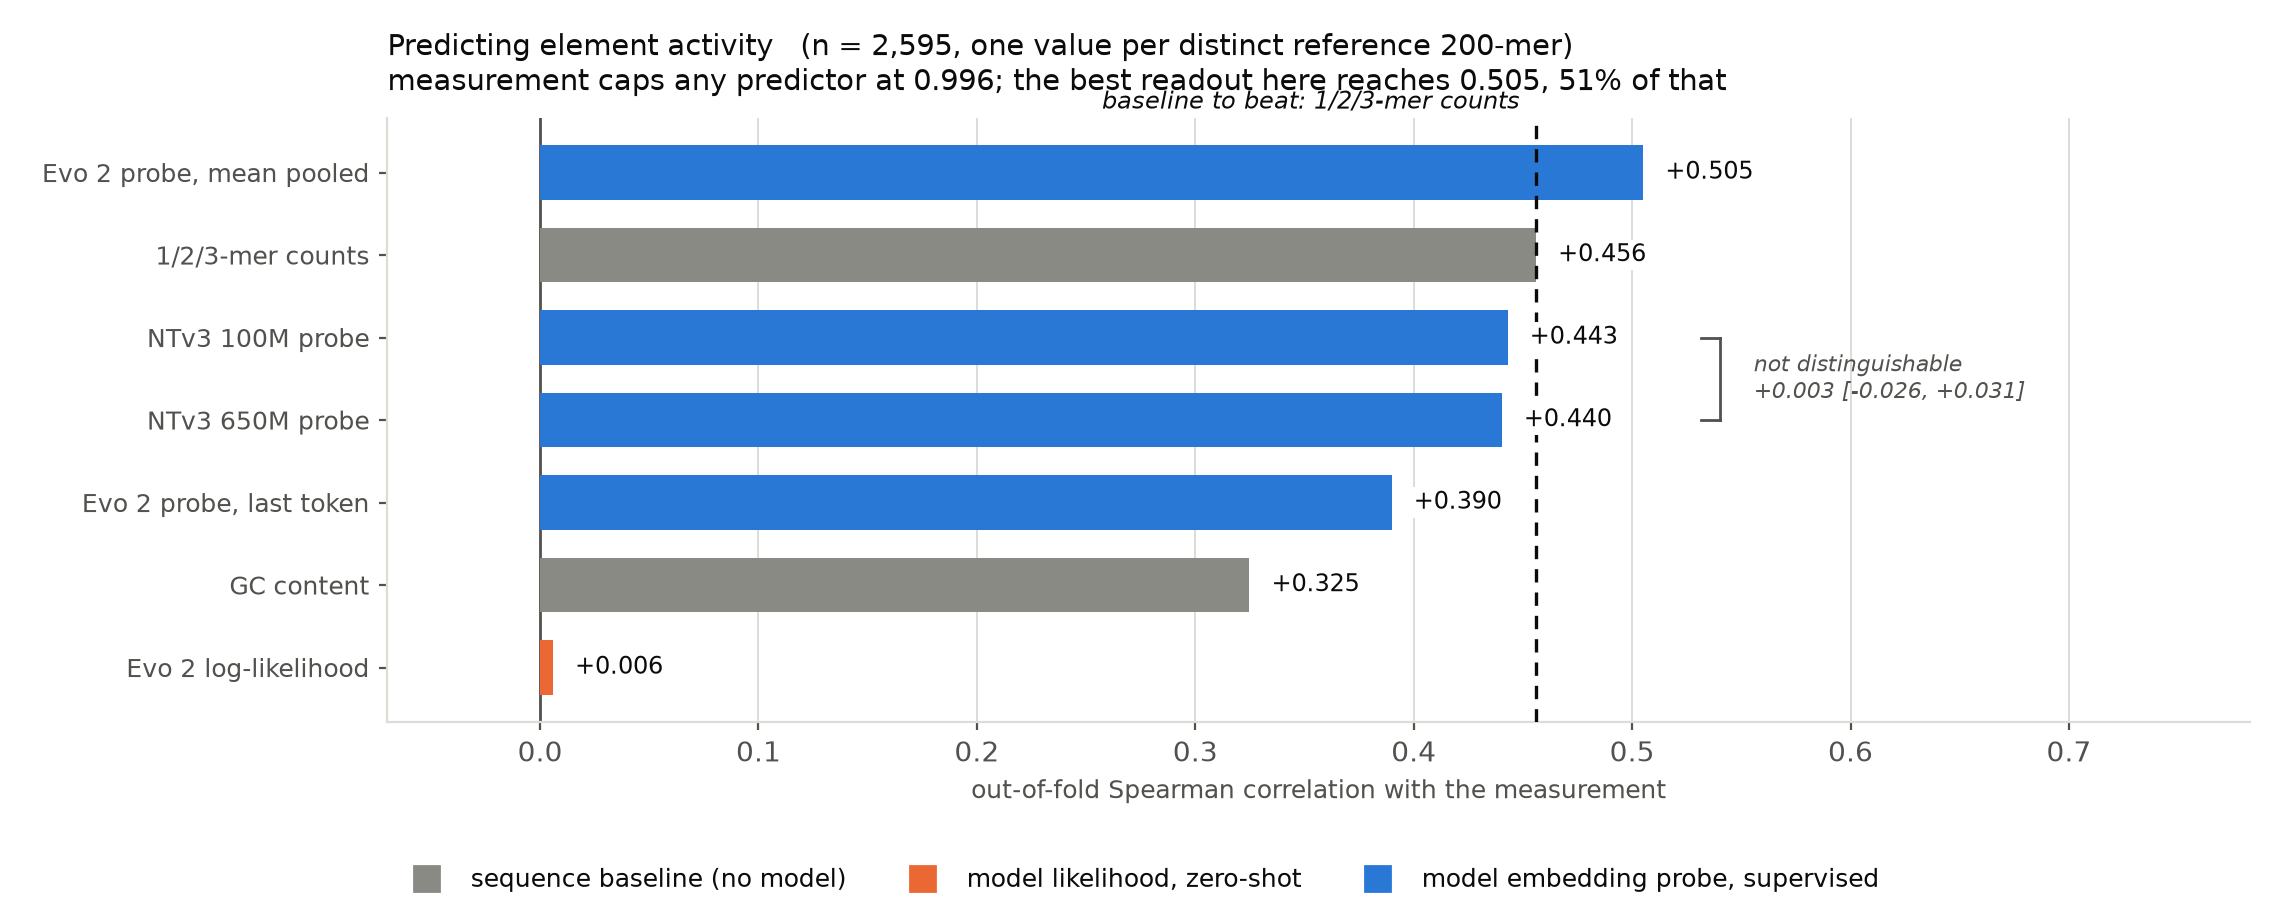
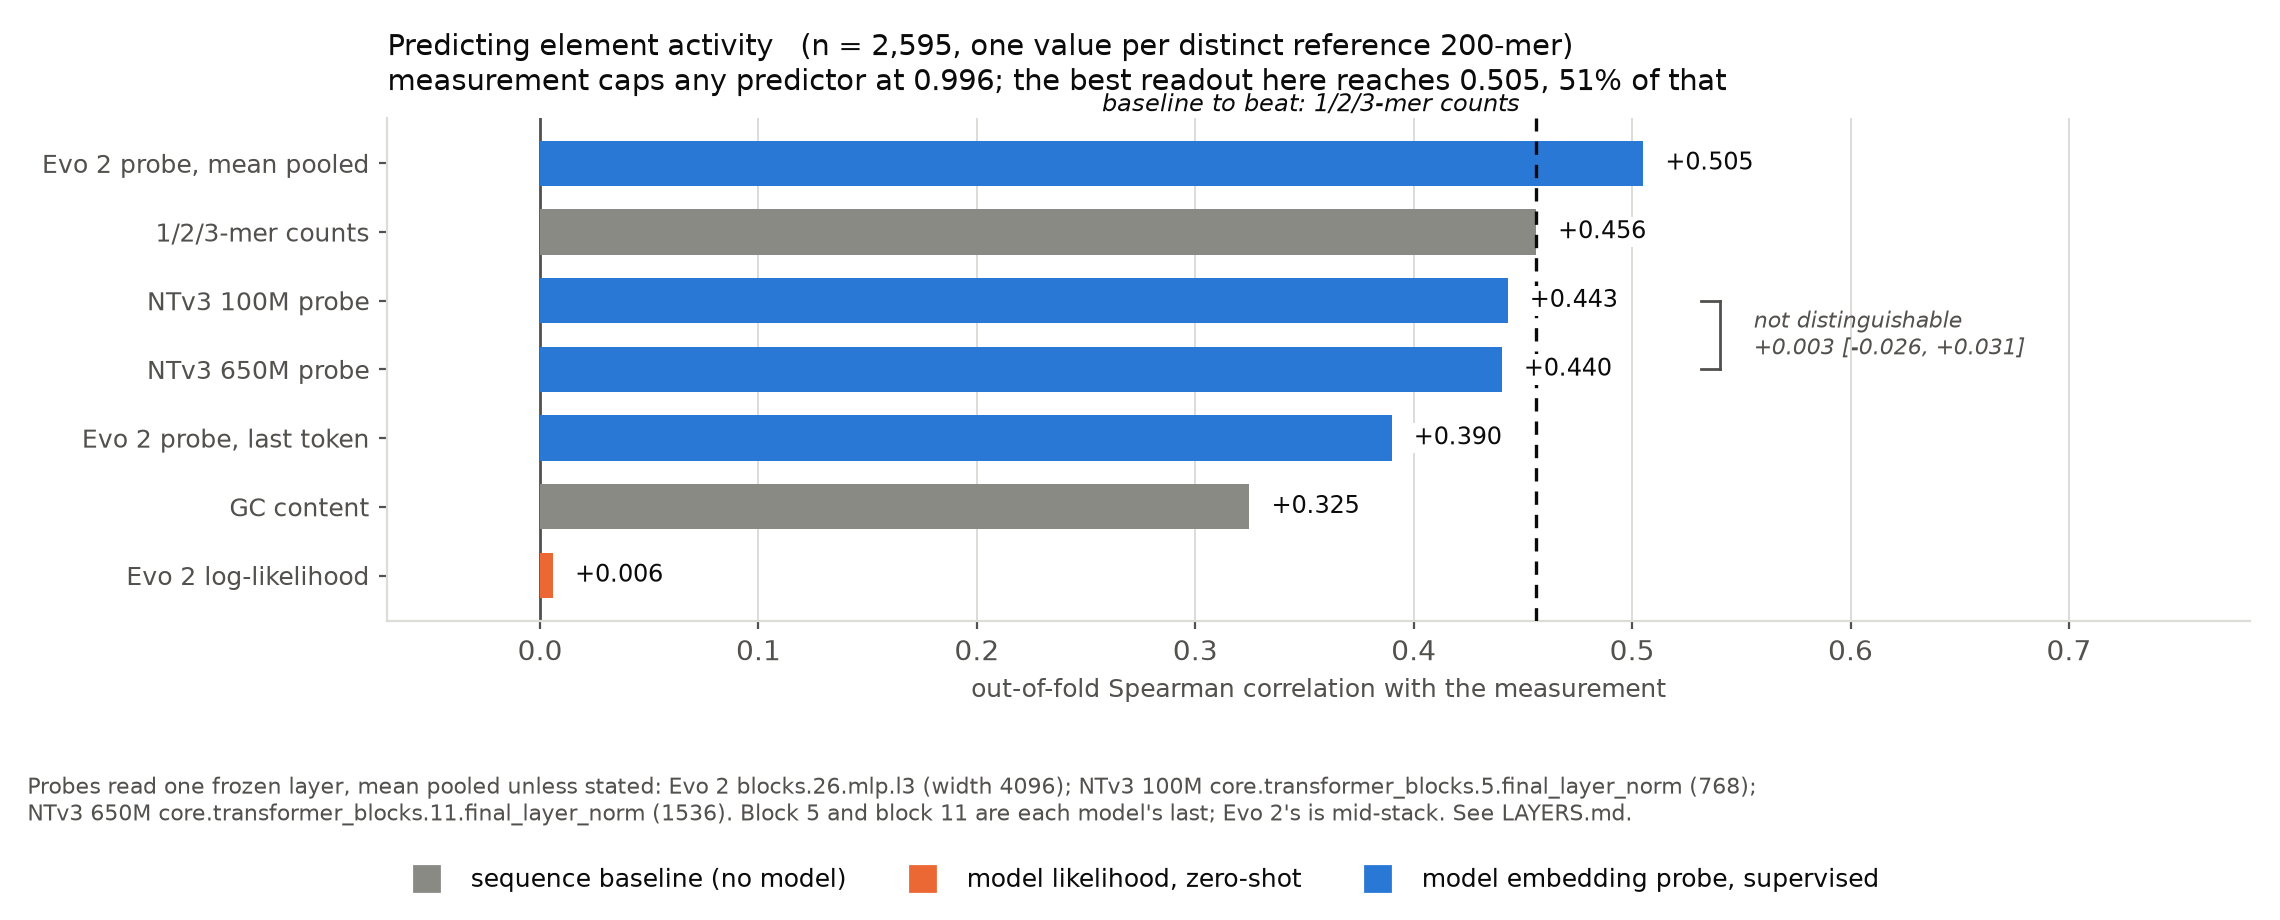
Name the layer behind every readout, and document two unusable directories
Adds LAYERS.md and puts the layer provenance on the figures themselves
rather than leaving it in meta.json files nobody opens.

Element and variant probes, confirmed from each meta.json:
  Evo 2        blocks.26.mlp.l3                            width 4096
  NTv3 100M    core.transformer_blocks.5.final_layer_norm  width 768
  NTv3 650M    core.transformer_blocks.11.final_layer_norm width 1536
Block 5 and block 11 are each model's last; Evo 2's is mid-stack, and no
Evo 2 layer sweep has ever been run to justify that choice. Within each
model the variant and element embeddings share a layer, which is what
makes h(alt) - h(ref) a valid contrast.

Two directories are not interchangeable with those and now say so.

results/ntv3_650m_probe records hidden_states[-4], not block 11. Same
checkpoint and width as ntv3_650m_final, different depth.

results/ntv3_650m_sweep is unusable as committed. Its meta records 26
layers for a model with 12 transformer blocks; find_layers picks the
largest contiguous module stack and writes only indices, and the log for
the run that produced these matrices carries no layer-name line, so what
L0 through L25 are is recorded nowhere. Checked directly: 18 of the 26
matrices contain non-finite values, leaving layers 0-3 and 22-25.
sweep650.log shows that run scoring layers 0, 1 and 2 at +0.5533,
+0.5655 and +0.5607 before failing at layer 3, all above the Evo 2
element probe at +0.5051. Those numbers should not be quoted.
[…]

diff --git a/make_figures.py b/make_figures.py
@@ -62,6 +62,12 @@ def probe_margin(path):
     return tuple(float(g) for g in match.groups())
 
 
+LAYER_NOTE = ("Probes read one frozen layer, mean pooled unless stated: Evo 2 blocks.26.mlp.l3 (width 4096); "
+              "NTv3 100M core.transformer_blocks.5.final_layer_norm (768);\n"
+              "NTv3 650M core.transformer_blocks.11.final_layer_norm (1536). Block 5 and block 11 are each "
+              "model's last; Evo 2's is mid-stack. See LAYERS.md.")
+
+
 ELEMENT_CAPTION = (
     "What the bars are.  Each bar is the Spearman rank correlation between one readout's prediction and the measured\n"
     "activity of the same 200 bases: the log2 RNA/DNA ratio of the reference sequence in the Siraj et al. K562 MPRA,\n"
@@ -295,7 +301,8 @@ def main():
     figure.suptitle("Frozen genomic language models against cheap sequence baselines",
                     fontsize=13, color=INK, x=0.012, ha="left", y=0.995)
     legend(figure, ["baseline", "likelihood", "probe", "combined"])
-    figure.tight_layout(rect=(0, 0.045, 1, 0.975))
+    figure.tight_layout(rect=(0, 0.075, 1, 0.975))
+    figure.text(0.012, 0.048, LAYER_NOTE, fontsize=8, color=MUTED, ha="left", va="bottom")
     first = args.out / "benchmark.png"
     figure.savefig(first, dpi=200, facecolor="white")
     plt.close(figure)
@@ -320,7 +327,8 @@ def main():
     figure.suptitle("Does the model beat the baseline? Anything crossing zero does not.",
                     fontsize=13, color=INK, x=0.012, ha="left", y=0.995)
     legend(figure, ["likelihood", "probe", "combined"])
-    figure.tight_layout(rect=(0, 0.055, 1, 0.965))
+    figure.tight_layout(rect=(0, 0.095, 1, 0.965))
+    figure.text(0.012, 0.052, LAYER_NOTE, fontsize=8, color=MUTED, ha="left", va="bottom")
     second = args.out / "margin_over_baseline.png"
     figure.savefig(second, dpi=200, facecolor="white")
     plt.close(figure)
@@ -353,7 +361,8 @@ def main():
     axis.set_xlabel("out-of-fold Spearman correlation with the measurement",
                     fontsize=9, color=MUTED)
     legend(figure, ["baseline", "likelihood", "probe"])
-    figure.tight_layout(rect=(0, 0.09, 1, 1.0))
+    figure.tight_layout(rect=(0, 0.20, 1, 1.0))
+    figure.text(0.012, 0.10, LAYER_NOTE, fontsize=8, color=MUTED, ha="left", va="bottom")
     fourth = args.out / "element_activity_probes_only.png"
     figure.savefig(fourth, dpi=200, facecolor="white")
     plt.close(figure)

diff --git a/LAYERS.md b/LAYERS.md
@@ -1,0 +1,65 @@
+# Which layer every readout uses
+
+One place to check before quoting any probe number. Every fact here is read from
+the `meta.json` beside the matrices, or from the matrices themselves.
+
+## Element-activity probes (2,595 reference 200-mers)
+
+| result directory | checkpoint | layer | width |
+|---|---|---|---|
+| `results/evo_probe` | `evo2_7b_base` | `blocks.26.mlp.l3` | 4096 |
+| `results/ntv3_100m_final` | `InstaDeepAI/NTv3_100M_pre` | `core.transformer_blocks.5.final_layer_norm` | 768 |
+| `results/ntv3_650m_final` | `InstaDeepAI/NTv3_650M_pre` | `core.transformer_blocks.11.final_layer_norm` | 1536 |
+
+Block 5 is the last of 6 for NTv3 100M and block 11 the last of 12 for 650M, so
+both NTv3 readouts are the final transformer block. Evo 2 is a mid-stack block,
+not its last. That asymmetry was a choice made before the results existed and has
+never been revisited: no Evo 2 layer sweep has been run.
+
+## Single-variant probes (5,666 substitutions)
+
+The variant embeddings hold alternate sequences only (`include_reference: false`),
+so the probe feature is `h(alt) - h(ref)` with the reference vector taken from the
+element embeddings above. Both sides come from the same layer within a model.
+
+| result directory | checkpoint | layer | width | n |
+|---|---|---|---|---|
+| `results/ntv3_100m_variants` | `InstaDeepAI/NTv3_100M_pre` | block 5, as above | 768 | 5,428 sequences, 5,666 variants matched |
+| `results/ntv3_650m_variants` | `InstaDeepAI/NTv3_650M_pre` | block 11, as above | 1536 | 5,428 sequences, 5,666 variants matched |
+| `results/vp_evo2` | `evo2_7b_base` | `blocks.26.mlp.l3` | 4096 | 5,428 observations |
+
+`vp_evo2` holds no matrices, only derived tables, so it cannot be refitted under
+the current protocol. Its number is carried with a flag, not merged in.
+
+## Two directories that are NOT interchangeable with the above
+
+`results/ntv3_650m_probe` records `layer: "hidden_states[-4]"`, not block 11. Same
+checkpoint and width as `ntv3_650m_final`, different depth. Do not treat the two
+as the same readout.
+
+`results/ntv3_650m_sweep` is unusable as committed, for two reasons.
+
+Its `meta.json` records `layers: [0..25]` and 26 matrices are present, but the
+650M model has 12 transformer blocks. `find_layers` in `ntv3_sweep.py` selects
+the *largest* contiguous module stack it can find, not necessarily the blocks,
+and it prints the module names to stdout while writing only indices to
+`meta.json`. The log from the run that produced these matrices (`sweep650.log`,
+recoverable from commit e1d359d) carries no layer-name line, so **what L0 through
+L25 are is not recorded anywhere in the repository.** A later run under the
+current script did print names and found 12 layers under `core.transformer_blocks`
+(`sweep650_named.log`, same commit), but those are not the committed matrices.
+
+18 of the 26 matrices contain non-finite values. Checked directly:
+
+    non-finite: layers 4-21
+    usable:     layers 0, 1, 2, 3, 22, 23, 24, 25
+
+`sweep650.log` shows the run scoring layers 0, 1 and 2 at +0.5533, +0.5655 and
++0.5607 against a k-mer baseline of +0.4560, then failing at layer 3 with
+"features contain NaN or infinity". Those three numbers are higher than every
+readout in the committed benchmark, including the Evo 2 element probe at +0.5051.
+They should not be quoted: the layers are unidentified and the run they come from
+did not complete.
+
+Re-running `ntv3_sweep.py` under the current script would fix both problems at
+once, since it names the layers it captures.
